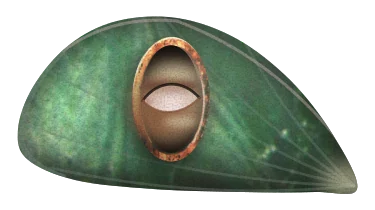
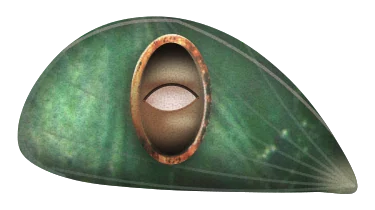
Mariposa Pontiac: el ala de lejos también aletea, y la ficha entra entera
Con la cuenta justa de la cámara, el ala del otro lado casi no bajaba en
los aletazos y parecía aletear con una sola: va con la mitad de la
elevación. Los aletazos abren menos, para que el ojo no se haga una raya.
Las antenas, más finas; el retrato, con las antenas adentro.

diff --git a/src/lib/bestiario/rig-pontiac.ts b/src/lib/bestiario/rig-pontiac.ts
@@ -94,7 +94,7 @@ export const PONTIAC_VIDA = {
   cabeceo: -5,
   /** Los aletazos: cuántos por segundo y cuánto abren. */
   aletazos: 1.7,
-  abreAletazo: 66,
+  abreAletazo: 52,
 } as const;
 
 /**
@@ -172,9 +172,10 @@ const rad = (v: number): number => (v * Math.PI) / 180;
  * cámara un poco desde arriba, la de este lado se achica más rápido. Nunca llega a darse vuelta.
  */
 export function alturaDeAla(abre: number, cerca: boolean): number {
-  const e = ELEVACION;
+  // La del otro lado se achica más despacio, pero se achica: con la cuenta justa casi no bajaría en
+  // los aletazos, y de lejos parecería que aletea con una sola. Esa va con la mitad de la elevación.
+  const e = cerca ? ELEVACION : ELEVACION / 2;
   const a = Math.min(abre, 80);
-  // La del otro lado crece un poco al abrirse, hasta que se acuesta; no más que lo que mide.
   return Math.min(1, Math.max(0.06, Math.cos(rad(cerca ? a + e : a - e)) / Math.cos(rad(e))));
 }
 

diff --git a/src/lib/bestiario/arte-pontiac.ts b/src/lib/bestiario/arte-pontiac.ts
@@ -285,7 +285,7 @@ function antena(): string {
     const [x2, y2] = en(t + 0.01);
     const l = Math.hypot(x2 - x, y2 - y);
     const [tx, ty] = [(x2 - x) / l, (y2 - y) / l];
-    const w = 4.4 * Math.sin(Math.PI * Math.min(1, t * 1.12)) ** 0.8;
+    const w = 3.6 * Math.sin(Math.PI * Math.min(1, t * 1.12)) ** 0.8;
     // Las barbas, peinadas para adelante, de los dos lados del eje.
     const [ax, ay] = [x - ty * w + tx * w * 0.6, y + tx * w + ty * w * 0.6];
     const [bx, by] = [x + ty * w + tx * w * 0.6, y - tx * w + ty * w * 0.6];
@@ -579,5 +579,5 @@ export const PONTIAC: Personaje | null = {
   // Vive adentro de su fierro, que la lleva el tránsito: no dibuja nada en las capas del recinto.
   capas: {},
   fierro: () => titere(QUIETA),
-  retrato: { caja: [-172, -208, 304, 224], cuerpo: () => titere(DESPEGADA) },
+  retrato: { caja: [-178, -210, 332, 226], cuerpo: () => titere(DESPEGADA) },
 };

diff --git a/src/scripts/bestiario/pontiac.ts b/src/scripts/bestiario/pontiac.ts
@@ -120,7 +120,7 @@ export const armarPontiac: Armar = (marcos, esc) => {
   let proximoPliegue = rango(V.pliega.cada);
   // El parpadeo, y el párpado de ahora.
   let parpadeo = rango(V.parpadeo.cada);
-  let parpadoBase = V.parpadoQuieto;
+  let parpadoBase: number = V.parpadoQuieto;
   // Un rato mira la luna.
   let lunaHasta = -1;
   let proximaLuna = 6 + rnd() * 8;
